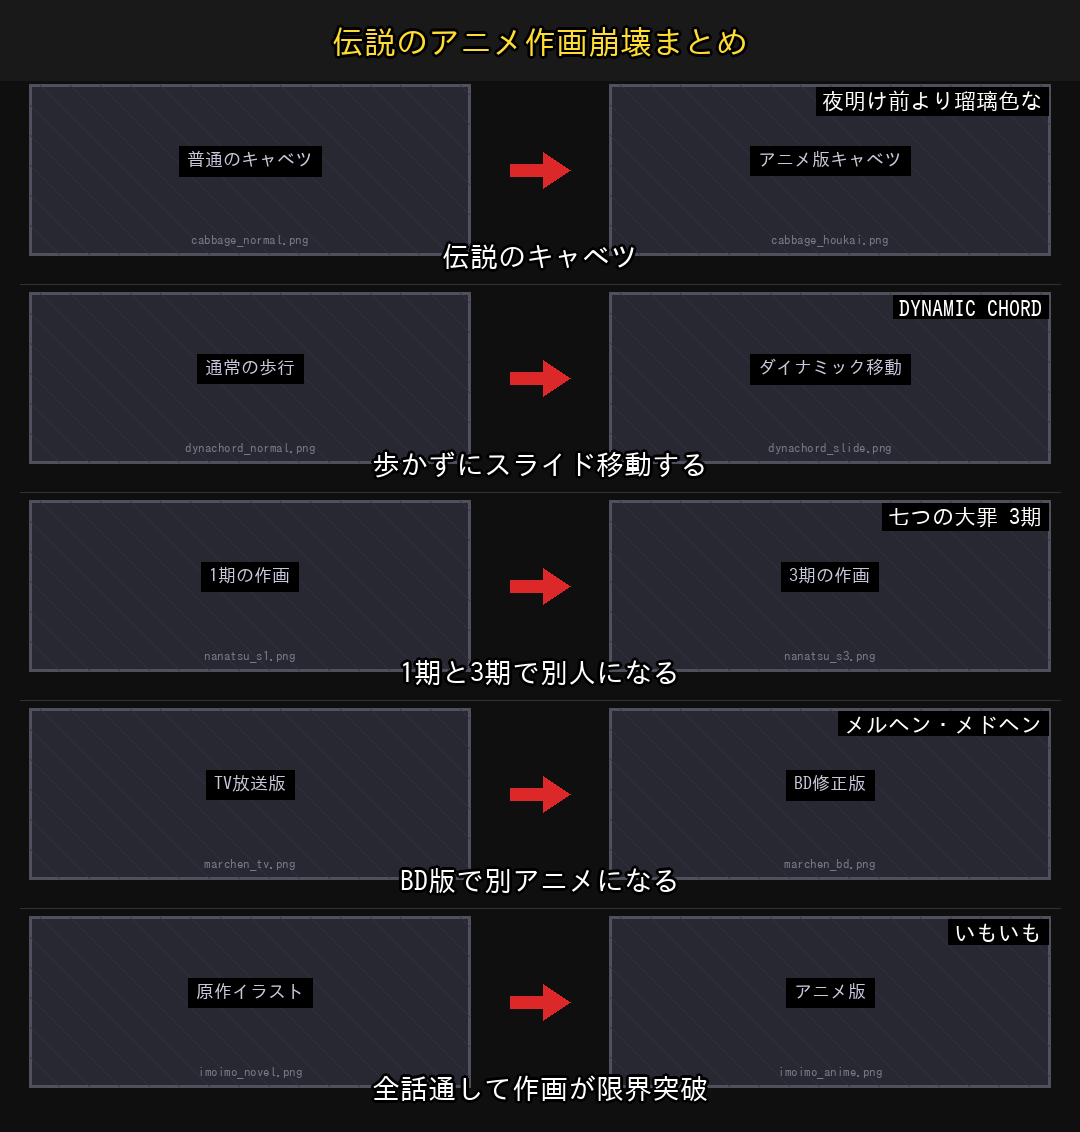
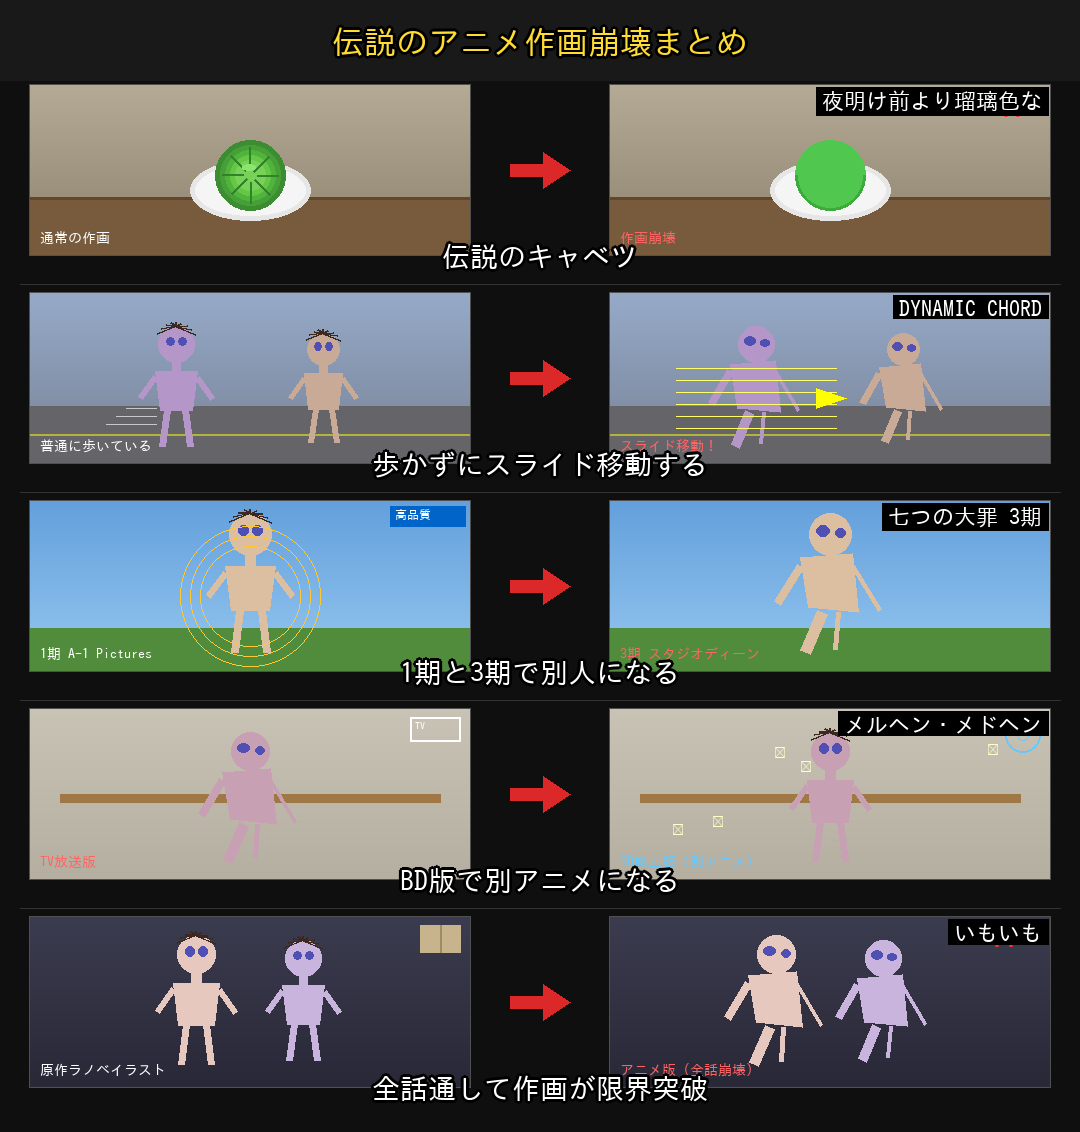
Add sample illustration images and regenerate composite image
Generate representative drawn images for all 5 作画崩壊 entries:
- Cabbage (夜明け前より瑠璃色な): detailed vs plain green ball
- DYNAMIC CHORD: normal walk vs sliding motion
- 七つの大罪: S1 quality vs S3 quality
- メルヘン・メドヘン: TV broadcast vs BD corrected
- いもいも: novel illustration vs anime version

https://claude.ai/code/session_014BaRjy9BR4JbKZoe3o6KoB

diff --git a/create_sample_images.py b/create_sample_images.py
@@ -1,0 +1,325 @@
+#!/usr/bin/env python3
+"""
+Generate representative sample images for 作画崩壊まとめ entries.
+Creates stylized illustrations that convey the concept of each animation quality fail.
+"""
+
+from PIL import Image, ImageDraw, ImageFont
+import os
+import random
+import math
+
+FONT_PATH = "/usr/share/fonts/opentype/ipafont-gothic/ipag.ttf"
+W, H = 440, 170
+
+def get_font(size):
+    try:
+        return ImageFont.truetype(FONT_PATH, size)
+    except:
+        return ImageFont.load_default()
+
+
+def draw_gradient_bg(draw, w, h, color_top, color_bottom):
+    """Draw a vertical gradient background."""
+    for y in range(h):
+        r = int(color_top[0] + (color_bottom[0] - color_top[0]) * y / h)
+        g = int(color_top[1] + (color_bottom[1] - color_top[1]) * y / h)
+        b = int(color_top[2] + (color_bottom[2] - color_top[2]) * y / h)
+        draw.line([(0, y), (w, y)], fill=(r, g, b))
+
+
+def draw_cabbage(draw, cx, cy, radius, quality="good"):
+    """Draw a cabbage - good version is round with leaf details, bad is a plain circle."""
+    if quality == "good":
+        # Nice layered cabbage with leaf veins
+        colors = [(60, 140, 50), (70, 160, 55), (80, 180, 60), (100, 200, 70), (120, 210, 90)]
+        for i, c in enumerate(colors):
+            r = radius - i * (radius // 6)
+            draw.ellipse([cx - r, cy - r, cx + r, cy + r], fill=c)
+        # Leaf veins
+        for angle in range(0, 360, 45):
+            rad = math.radians(angle)
+            x1 = cx + int(radius * 0.2 * math.cos(rad))
+            y1 = cy + int(radius * 0.2 * math.sin(rad))
+            x2 = cx + int(radius * 0.8 * math.cos(rad))
+            y2 = cy + int(radius * 0.8 * math.sin(rad))
+            draw.line([(x1, y1), (x2, y2)], fill=(50, 130, 40), width=2)
+        # Highlight
+        draw.ellipse([cx - radius//4, cy - radius//3, cx + radius//6, cy - radius//6],
+                     fill=(140, 230, 110))
+    else:
+        # Infamous bad cabbage - just a green sphere/ball with no detail
+        draw.ellipse([cx - radius, cy - radius, cx + radius, cy + radius], fill=(80, 200, 80))
+        # Single awkward line
+        draw.arc([cx - radius, cy - radius, cx + radius, cy + radius], 0, 180, fill=(60, 170, 60), width=3)
+        # It looks like a ball, not a cabbage - that's the point
+
+
+def draw_character_silhouette(draw, cx, cy, scale=1.0, quality="good", color=(200, 180, 160)):
+    """Draw a simple anime character silhouette."""
+    s = scale
+    # Head center is above the body reference point
+    head_cy = cy - int(45 * s)
+    head_r = int(15 * s)
+    draw.ellipse([cx - head_r, head_cy - head_r, cx + head_r, head_cy + head_r], fill=color)
+
+    if quality == "good":
+        # Nice proportioned body
+        # Neck
+        neck_top = head_cy + head_r
+        neck_bot = neck_top + int(8 * s)
+        draw.rectangle([cx - int(4*s), neck_top, cx + int(4*s), neck_bot], fill=color)
+        # Body (torso)
+        body_top = neck_bot
+        body_bot = cy + int(10*s)
+        draw.polygon([
+            (cx - int(18*s), body_top),
+            (cx + int(18*s), body_top),
+            (cx + int(14*s), body_bot),
+            (cx - int(14*s), body_bot),
+        ], fill=color)
+        # Arms
+        draw.line([(cx - int(18*s), body_top + int(5*s)), (cx - int(30*s), cy)], fill=color, width=max(int(5*s), 1))
+        draw.line([(cx + int(18*s), body_top + int(5*s)), (cx + int(30*s), cy)], fill=color, width=max(int(5*s), 1))
+        # Legs
+        draw.line([(cx - int(8*s), body_bot), (cx - int(12*s), cy + int(40*s))], fill=color, width=max(int(6*s), 1))
+        draw.line([(cx + int(8*s), body_bot), (cx + int(12*s), cy + int(40*s))], fill=color, width=max(int(6*s), 1))
+        # Eyes (detailed)
+        ey = head_cy - int(3*s)
+        draw.ellipse([cx - int(9*s), ey - int(4*s), cx - int(2*s), ey + int(4*s)], fill=(80, 80, 180))
+        draw.ellipse([cx + int(2*s), ey - int(4*s), cx + int(9*s), ey + int(4*s)], fill=(80, 80, 180))
+        # Hair
+        for angle in range(-60, 61, 15):
+            rad = math.radians(angle - 90)
+            hx = cx + int((head_r + 4) * math.cos(rad))
+            hy = head_cy + int((head_r + 4) * math.sin(rad))
+            draw.line([(cx, head_cy - head_r), (hx, hy)], fill=(60, 40, 30), width=max(int(2*s), 1))
+    else:
+        # Poorly drawn - wrong proportions, wobbly lines
+        neck_top = head_cy + head_r
+        body_bot = cy + int(12*s)
+        # Misshapen body
+        draw.polygon([
+            (cx - int(22*s), neck_top + int(2*s)),
+            (cx + int(16*s), neck_top - int(2*s)),
+            (cx + int(20*s), body_bot),
+            (cx - int(16*s), body_bot - int(4*s)),
+        ], fill=color)
+        # Wonky arms
+        draw.line([(cx - int(22*s), neck_top + int(8*s)), (cx - int(38*s), cy + int(5*s))], fill=color, width=max(int(7*s), 1))
+        draw.line([(cx + int(16*s), neck_top + int(8*s)), (cx + int(35*s), cy + int(10*s))], fill=color, width=max(int(3*s), 1))
+        # Uneven legs
+        draw.line([(cx - int(6*s), body_bot), (cx - int(18*s), cy + int(40*s))], fill=color, width=max(int(8*s), 1))
+        draw.line([(cx + int(6*s), body_bot), (cx + int(4*s), cy + int(38*s))], fill=color, width=max(int(4*s), 1))
+        # Derpy eyes
+        ey = head_cy - int(2*s)
+        draw.ellipse([cx - int(10*s), ey - int(5*s), cx - int(1*s), ey + int(3*s)], fill=(80, 80, 180))
+        draw.ellipse([cx + int(4*s), ey - int(3*s), cx + int(11*s), ey + int(4*s)], fill=(80, 80, 180))
+
+
+def create_scene_bg(w, h, scene="indoor"):
+    """Create a simple anime scene background."""
+    img = Image.new('RGB', (w, h))
+    draw = ImageDraw.Draw(img)
+
+    if scene == "kitchen":
+        draw_gradient_bg(draw, w, h, (180, 170, 150), (140, 130, 110))
+        # Counter
+        draw.rectangle([0, h * 2 // 3, w, h], fill=(120, 90, 60))
+        draw.line([(0, h * 2 // 3), (w, h * 2 // 3)], fill=(100, 70, 40), width=3)
+    elif scene == "outdoor":
+        draw_gradient_bg(draw, w, h, (100, 160, 220), (150, 200, 240))
+        # Ground
+        draw.rectangle([0, h * 3 // 4, w, h], fill=(80, 140, 60))
+    elif scene == "street":
+        draw_gradient_bg(draw, w, h, (150, 170, 200), (120, 130, 150))
+        # Road
+        draw.rectangle([0, h * 2 // 3, w, h], fill=(100, 100, 105))
+        draw.line([(0, h * 5 // 6), (w, h * 5 // 6)], fill=(180, 180, 60), width=2)
+    elif scene == "stage":
+        draw_gradient_bg(draw, w, h, (40, 20, 60), (20, 10, 40))
+        # Stage floor
+        draw.rectangle([0, h * 3 // 4, w, h], fill=(60, 40, 30))
+    elif scene == "school":
+        draw_gradient_bg(draw, w, h, (200, 195, 180), (180, 175, 160))
+        # Desk
+        draw.rectangle([30, h // 2, w - 30, h // 2 + 8], fill=(160, 120, 70))
+    else:
+        draw_gradient_bg(draw, w, h, (60, 60, 80), (40, 40, 55))
+
+    return img, draw
+
+
+def make_cabbage_normal():
+    img, draw = create_scene_bg(W, H, "kitchen")
+    # Plate
+    draw.ellipse([W//2 - 60, H//2 - 10, W//2 + 60, H//2 + 50], fill=(230, 230, 230))
+    draw.ellipse([W//2 - 55, H//2 - 5, W//2 + 55, H//2 + 45], fill=(245, 245, 245))
+    # Good cabbage on plate
+    draw_cabbage(draw, W//2, H//2 + 5, 35, "good")
+    # Label
+    font = get_font(14)
+    draw.text((10, H - 25), "通常の作画", font=font, fill=(255, 255, 255))
+    return img
+
+
+def make_cabbage_houkai():
+    img, draw = create_scene_bg(W, H, "kitchen")
+    # Plate
+    draw.ellipse([W//2 - 60, H//2 - 10, W//2 + 60, H//2 + 50], fill=(230, 230, 230))
+    draw.ellipse([W//2 - 55, H//2 - 5, W//2 + 55, H//2 + 45], fill=(245, 245, 245))
+    # Bad cabbage - just a green ball
+    draw_cabbage(draw, W//2, H//2 + 5, 35, "bad")
+    # Add a "!" mark for emphasis
+    font = get_font(24)
+    draw.text((W - 50, 10), "!?", font=font, fill=(255, 50, 50))
+    font = get_font(14)
+    draw.text((10, H - 25), "作画崩壊", font=font, fill=(255, 100, 100))
+    return img
+
+
+def make_dynachord_normal():
+    img, draw = create_scene_bg(W, H, "street")
+    # Character walking normally with visible walking pose
+    draw_character_silhouette(draw, W//3, H//2 + 20, scale=1.2, quality="good", color=(180, 150, 200))
+    # Walking motion lines
+    for i in range(3):
+        y = H//2 + 30 + i * 8
+        draw.line([(W//3 - 50 - i*10, y), (W//3 - 20, y)], fill=(200, 200, 200, 100), width=1)
+    # Another character
+    draw_character_silhouette(draw, W * 2//3, H//2 + 20, scale=1.1, quality="good", color=(200, 170, 150))
+    font = get_font(14)
+    draw.text((10, H - 25), "普通に歩いている", font=font, fill=(255, 255, 255))
+    return img
+
+
+def make_dynachord_slide():
+    img, draw = create_scene_bg(W, H, "street")
+    # Character in stiff pose "sliding"
+    draw_character_silhouette(draw, W//3, H//2 + 20, scale=1.2, quality="bad", color=(180, 150, 200))
+    # Slide effect lines (horizontal speed lines)
+    for i in range(6):
+        y = H//2 + i * 12 - 10
+        draw.line([(W//3 - 80, y), (W//3 + 80, y)], fill=(255, 255, 100), width=1)
+    # Arrow showing sliding direction
+    draw.polygon([(W//3 + 60, H//2 + 10), (W//3 + 90, H//2 + 20), (W//3 + 60, H//2 + 30)],
+                 fill=(255, 255, 0))
+    # Stiff character
+    draw_character_silhouette(draw, W * 2//3, H//2 + 20, scale=1.1, quality="bad", color=(200, 170, 150))
+    font = get_font(14)
+    draw.text((10, H - 25), "スライド移動！", font=font, fill=(255, 100, 100))
+    return img
+
+
+def make_nanatsu_s1():
+    img, draw = create_scene_bg(W, H, "outdoor")
+    # Good quality character - heroic pose
+    draw_character_silhouette(draw, W//2, H//2 + 10, scale=1.4, quality="good", color=(220, 190, 160))
+    # Battle aura effect
+    for r in range(50, 80, 10):
+        draw.ellipse([W//2 - r, H//2 + 10 - r, W//2 + r, H//2 + 10 + r],
+                     outline=(255, 200, 50, 80), width=1)
+    font = get_font(14)
+    draw.text((10, H - 25), "1期 A-1 Pictures", font=font, fill=(255, 255, 255))
+    # Quality badge
+    font_sm = get_font(12)
+    draw.rectangle([W - 80, 5, W - 5, 25], fill=(0, 100, 200))
+    draw.text((W - 75, 7), "高品質", font=font_sm, fill=(255, 255, 255))
+    return img
+
+
+def make_nanatsu_s3():
+    img, draw = create_scene_bg(W, H, "outdoor")
+    # Bad quality character - same pose but poorly drawn
+    draw_character_silhouette(draw, W//2, H//2 + 10, scale=1.4, quality="bad", color=(220, 190, 160))
+    font = get_font(14)
+    draw.text((10, H - 25), "3期 スタジオディーン", font=font, fill=(255, 100, 100))
+    # Quality badge
+    font_sm = get_font(12)
+    draw.rectangle([W - 80, 5, W - 5, 25], fill=(200, 50, 50))
+    draw.text((W - 75, 7), "作画崩壊", font=font_sm, fill=(255, 255, 255))
+    return img
+
+
+def make_marchen_tv():
+    img, draw = create_scene_bg(W, H, "school")
+    # TV broadcast - character with poor quality
+    draw_character_silhouette(draw, W//2, H//2 + 15, scale=1.3, quality="bad", color=(200, 160, 180))
+    font = get_font(14)
+    draw.text((10, H - 25), "TV放送版", font=font, fill=(255, 100, 100))
+    # TV icon
+    draw.rectangle([W - 60, 8, W - 10, 32], outline=(255, 255, 255), width=2)
+    font_sm = get_font(10)
+    draw.text((W - 55, 12), "TV", font=font_sm, fill=(255, 255, 255))
+    return img
+
+
+def make_marchen_bd():
+    img, draw = create_scene_bg(W, H, "school")
+    # BD version - completely redrawn, good quality
+    draw_character_silhouette(draw, W//2, H//2 + 15, scale=1.3, quality="good", color=(200, 160, 180))
+    font = get_font(14)
+    draw.text((10, H - 25), "BD修正版（別アニメ）", font=font, fill=(100, 200, 255))
+    # BD disc icon
+    draw.ellipse([W - 45, 8, W - 10, 43], outline=(100, 200, 255), width=2)
+    draw.ellipse([W - 33, 20, W - 22, 31], outline=(100, 200, 255), width=1)
+    font_sm = get_font(10)
+    draw.text((W - 55, 12), "BD", font=font_sm, fill=(100, 200, 255))
+    # Sparkle effects showing improvement
+    for _ in range(5):
+        sx = random.randint(50, W - 50)
+        sy = random.randint(20, H - 40)
+        draw.text((sx, sy), "✦", font=get_font(12), fill=(255, 255, 200))
+    return img
+
+
+def make_imoimo_novel():
+    img, draw = create_scene_bg(W, H, "indoor")
+    # Light novel illustration style - good quality
+    draw_character_silhouette(draw, W//3 + 20, H//2 + 10, scale=1.3, quality="good", color=(230, 200, 190))
+    # Second character
+    draw_character_silhouette(draw, W * 2//3 - 20, H//2 + 10, scale=1.2, quality="good", color=(200, 180, 220))
+    font = get_font(14)
+    draw.text((10, H - 25), "原作ラノベイラスト", font=font, fill=(255, 255, 255))
+    # Book icon
+    draw.rectangle([W - 50, 8, W - 10, 35], fill=(200, 180, 140))
+    draw.line([(W - 30, 8), (W - 30, 35)], fill=(160, 140, 100), width=2)
+    return img
+
+
+def make_imoimo_anime():
+    img, draw = create_scene_bg(W, H, "indoor")
+    # Anime version - completely broken
+    draw_character_silhouette(draw, W//3 + 20, H//2 + 10, scale=1.3, quality="bad", color=(230, 200, 190))
+    draw_character_silhouette(draw, W * 2//3 - 20, H//2 + 10, scale=1.2, quality="bad", color=(200, 180, 220))
+    font = get_font(14)
+    draw.text((10, H - 25), "アニメ版（全話崩壊）", font=font, fill=(255, 100, 100))
+    # Warning marks
+    font_lg = get_font(28)
+    draw.text((W - 60, 5), "!!", font=font_lg, fill=(255, 50, 50))
+    return img
+
+
+if __name__ == "__main__":
+    random.seed(42)  # Reproducible output
+    os.makedirs("images", exist_ok=True)
+
+    pairs = [
+        ("images/cabbage_normal.png", make_cabbage_normal),
+        ("images/cabbage_houkai.png", make_cabbage_houkai),
+        ("images/dynachord_normal.png", make_dynachord_normal),
+        ("images/dynachord_slide.png", make_dynachord_slide),
+        ("images/nanatsu_s1.png", make_nanatsu_s1),
+        ("images/nanatsu_s3.png", make_nanatsu_s3),
+        ("images/marchen_tv.png", make_marchen_tv),
+        ("images/marchen_bd.png", make_marchen_bd),
+        ("images/imoimo_novel.png", make_imoimo_novel),
+        ("images/imoimo_anime.png", make_imoimo_anime),
+    ]
+
+    for path, func in pairs:
+        img = func()
+        img.save(path, quality=95)
+        print(f"Created: {path}")
+
+    print(f"\nAll {len(pairs)} images created successfully!")
